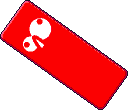
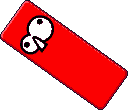
Vaporwave title in red and orange; new rice cake sprite
Title screen: night sky, striped sunset, horizon bands, palm silhouettes,
scrolling road with the three foods driving across, CRT scanlines.
Title face red with cream rim and orange shadow. Rice cake sprite is
regenerated from ricecakenew.png.

Claude-Session: https://claude.ai/code/session_019SEJ4iV7qy8DmvVWUoUxTh

diff --git a/chicken_game.html b/chicken_game.html
@@ -402,40 +402,56 @@ function sprite(key,x,y,scale=1,rot=0,alpha=1){
 // Overscan raises the existing artwork and keeps ceiling/cabinet frames off the arch seam.
 const kitchenBackdrop={key:'bg2',veil:'rgba(28,5,10,.52)'};
 const BACKDROP_Y={bg1:-48,bg2:-56,bg3:-80};
-// ---- 타이틀 전용 아케이드 배경: 흐르는 레드 체크 + 반짝이는 픽셀 별 ----
-// TV 아치의 가장자리(블리드)까지 같은 무늬로 채우도록 target 을 받는다.
-const titlePatterns=new WeakMap();
-function titlePattern(target){
-  let p=titlePatterns.get(target);
-  if(p!==undefined)return p;
-  const c=document.createElement('canvas');c.width=c.height=48;const x=c.getContext('2d');
-  x.fillStyle='#1b0c10';x.fillRect(0,0,48,48);
-  x.fillStyle='#261016';x.fillRect(0,0,24,24);x.fillRect(24,24,24,24);
-  p=target.createPattern?target.createPattern(c,'repeat'):null;titlePatterns.set(target,p);return p;
-}
-const TITLE_STARS=[[34,74,0],[322,88,1.3],[18,262,2.1],[340,228,.7],[46,420,1.7],[318,396,2.6],[28,590,.4],[330,560,1.1],[92,40,2.9],[268,36,.2]];
-function pixelSpark(target,x,y,s,col){
-  target.fillStyle=col;
-  target.fillRect(R(x)-s,R(y)-1,s*2,2);target.fillRect(R(x)-1,R(y)-s,2,s*2);
-  target.fillRect(R(x)-2,R(y)-2,4,4);
+// ---- 타이틀 전용 배경: 레드/오렌지 베이퍼웨이브 (시티 커넥션 타이틀처럼) ----
+// 단색 밤하늘 + 줄무늬 석양 + 수평선 띠 + 야자수 실루엣 + 도로.
+// TV 아치의 가장자리(블리드)까지 같은 장면으로 채우도록 target 을 받는다.
+const VW={sky:'#3a0814',skyLow:'#5a0b18',sunTop:'#ffb03b',sunBot:'#f21d27',horizon:500,road:596,
+  bands:['#5c0c1a','#7c1020','#a3151f','#cf2a1f','#f0501f','#ff8a3b'],palm:'#1a050a'};
+function vwPalm(target,x,base,h,flip){
+  target.fillStyle=VW.palm;
+  // 줄기: 살짝 휜 픽셀 기둥
+  for(let i=0;i<h;i+=4){const k=i/h, bx=x+flip*Math.round(Math.sin(k*1.6)*18);target.fillRect(R(bx-4+k*2),R(base-i-4),R(8-k*3),4);}
+  const tx=x+flip*Math.round(Math.sin(1.6)*18), ty=base-h;
+  // 잎: 부채꼴로 늘어진 픽셀 가지
+  for(const [ang,len] of [[-2.7,44],[-2.2,50],[-1.7,40],[-1.2,50],[-.6,46],[-.15,40],[-3.1,36]]){
+    for(let d=0;d<len;d+=3){const droop=(d/len)**2*22, px=tx+Math.cos(ang)*d, py=ty+Math.sin(ang)*d*.55+droop;
+      const w=R(6-d/len*4);target.fillRect(R(px-w/2),R(py-w/2),w,w);}
+  }
+  target.fillRect(R(tx-5),R(ty-4),10,8);
 }
 function paintTitleBackdrop(target){
-  const t=game.t||0,pat=titlePattern(target);
-  const off=(t*14)%48;
-  target.save();
-  target.fillStyle=pat||'#1b0c10';target.translate(off,off);
-  target.fillRect(-GW-off,-GH-off,GW*3,GH*3);
-  target.restore();
-  // 위아래 어둡게 (타이틀과 손 영역에 시선이 모이게)
-  const g=target.createLinearGradient(0,-40,0,GH);
-  g.addColorStop(0,'rgba(22,11,14,.85)');g.addColorStop(.28,'rgba(22,11,14,0)');
-  g.addColorStop(.7,'rgba(22,11,14,0)');g.addColorStop(1,'rgba(22,11,14,.7)');
-  target.fillStyle=g;target.fillRect(-GW,-GH,GW*3,GH*3);
-  // 아치 밖까지 이어지는 반짝임
-  for(const [x,y,ph] of [...TITLE_STARS,[-40,160,.9],[400,300,1.9],[-30,480,2.4],[392,120,.3]]){
-    const k=(Math.sin(t*2.2+ph*2.4)+1)/2; if(k<.55)continue;
-    pixelSpark(target,x,y,k>.85?5:3,k>.85?OVEN.red:OVEN.deepRed);
+  const t=game.t||0, H=VW.horizon;
+  target.fillStyle=VW.sky;target.fillRect(-GW,-GH,GW*3,GH*3);
+  // 하늘 아래쪽이 조금 밝아지는 계단식 띠 (그라데이션 대신 픽셀 밴드)
+  const steps=['#410916','#480a17','#500b18','#590c19','#630d1a'];
+  steps.forEach((c,i)=>{target.fillStyle=c;target.fillRect(-GW,H-150+i*28,GW*3,28);});
+  // 석양: 위 오렌지 → 아래 레드, 아래쪽은 가로줄로 잘린다
+  const cx=GW/2, cy=H-6, r=86;
+  for(let y=-r;y<=0;y+=2){
+    const k=(y+r)/r, cut=k>.45&&((y+r)%14)<Math.round((k-.45)*14);
+    if(cut)continue;
+    const w=Math.floor(Math.sqrt(r*r-y*y)/2)*2;
+    target.fillStyle=k<.5?VW.sunTop:k<.75?'#ff6a2b':VW.sunBot;
+    target.fillRect(R(cx-w),R(cy+y),w*2,2);
   }
+  // 수평선 띠
+  let y=H; VW.bands.forEach((c,i)=>{const h=[10,8,6,5,4,3][i];target.fillStyle=c;target.fillRect(-GW,y,GW*3,h);y+=h;});
+  // 바다/바닥: 흐르는 가로 반사선
+  target.fillStyle='#2a0610';target.fillRect(-GW,y,GW*3,VW.road-y);
+  for(let i=0;i<5;i++){const yy=y+6+i*14, off=((t*30*(1+i*.3))%80);
+    target.fillStyle=i%2?'rgba(255,138,59,.28)':'rgba(242,29,39,.35)';
+    for(let x=-GW-80+off;x<GW*2;x+=80)target.fillRect(R(x),R(yy),26-i*3,2);}
+  // 도로
+  target.fillStyle=VW.bands[5];target.fillRect(-GW,VW.road,GW*3,2);
+  target.fillStyle='#150408';target.fillRect(-GW,VW.road+2,GW*3,GH*2);
+  const dash=(t*90)%40;target.fillStyle='rgba(255,176,59,.55)';
+  for(let x=-GW-40+dash;x<GW*2;x+=40)target.fillRect(R(x),VW.road+30,18,2);
+  // 야자수 (화면 양쪽과 아치 밖)
+  vwPalm(target,22,H+2,150,1);vwPalm(target,-30,H+6,190,1);
+  vwPalm(target,340,H+2,160,-1);vwPalm(target,398,H+6,200,-1);
+  // CRT 주사선
+  target.fillStyle='rgba(0,0,0,.14)';
+  for(let yy=-GH;yy<GH*2;yy+=4)target.fillRect(-GW,yy,GW*3,1);
 }
 function paintKitchenBackdrop(target){
   if(kitchenBackdrop.key==='title'){paintTitleBackdrop(target);return;}
@@ -911,14 +927,15 @@ function titleWord(str,x,y,size,align='center'){
   const o=3;
   ctx.fillStyle=OVEN.ink;
   for(const [dx,dy] of [[-o,0],[o,0],[0,-o],[0,o],[-o,-o],[o,-o],[-o,o],[o,o]]) ctx.fillText(str,R(x)+dx,R(y)+5+dy);
-  ctx.fillStyle=OVEN.deepRed; ctx.fillText(str,R(x),R(y)+5);
+  ctx.fillStyle=OVEN.orange; ctx.fillText(str,R(x),R(y)+5);
   ctx.fillStyle=OVEN.ink;
   for(const [dx,dy] of [[-o,0],[o,0],[0,-o],[0,o],[-o,-o],[o,-o],[-o,o],[o,o]]) ctx.fillText(str,R(x)+dx,R(y)+dy);
+  ctx.fillStyle=OVEN.paper; ctx.fillText(str,R(x),R(y)-2);
   ctx.fillStyle=OVEN.red; ctx.fillText(str,R(x),R(y));
 }
 function titleDot(x,y){
   ctx.fillStyle=OVEN.ink;ctx.fillRect(R(x)-6,R(y)-6,12,12);
-  ctx.fillStyle=OVEN.green;ctx.fillRect(R(x)-3,R(y)-3,6,6);
+  ctx.fillStyle=OVEN.orange;ctx.fillRect(R(x)-3,R(y)-3,6,6);
 }
 function drawTitle(y){
   const size=48,cw=size/2,gap=26;
@@ -946,32 +963,31 @@ function drawTitleCloud(cx,cy,t){
   for(let i=0;i<6;i++){const a=t*.9+i*Math.PI/3, px=cx+Math.cos(a)*176, py=cy+bob+Math.sin(a)*96;
     ctx.fillStyle=OVEN.ink;pixelBlob(px,py,9);ctx.fillStyle=i%3===0?OVEN.green:i%2?OVEN.red:OVEN.paper;pixelBlob(px,py,6);}
 }
-// 재료들이 서 있는 무대 (그림자 + 바닥 띠)
-function drawTitleStage(t){
-  ctx.fillStyle='rgba(22,11,14,.55)';ctx.fillRect(0,352,GW,6);
-  ctx.fillStyle=OVEN.red;ctx.fillRect(0,350,GW,2);
-  FOODS.forEach((key,i)=>{
-    const ph=t*3.2+i*2.1, jump=Math.max(0,Math.sin(ph))*22, x=78+i*102;
-    const sw=R(34-jump*.5);ctx.fillStyle='rgba(22,11,14,.6)';ctx.fillRect(R(x-sw/2),346,sw,4);
-    sprite(key,x,318-jump,1.15,Math.sin(ph)*.08);
-  });
+// 재료들이 도로 위를 줄지어 달린다 (시티 커넥션의 택시 줄처럼)
+function drawTitleParade(t){
+  const gap=120, span=GW+gap, off=(t*46)%gap;
+  for(let n=-1;n<4;n++){
+    const key=FOODS[((n+Math.floor(t*46/gap))%3+3)%3], x=-60+n*gap+off;
+    const hop=Math.abs(Math.sin(t*9+n))*4;
+    ctx.fillStyle='rgba(0,0,0,.45)';ctx.fillRect(R(x-18),VW.road+4,36,4);
+    sprite(key,x,VW.road-24-hop,.85,key==='ricecake'?0:Math.sin(t*9+n)*.05);
+  }
 }
 function drawAttract(t){
   bg('title');
-  drawTitleCloud(GW/2,166,t);
-  drawTitle(134);
-  drawTitleStage(t);
+  drawTitle(150);
+  drawTitleParade(t);
   const cdLeft=game.cooldownUntil-t, waiting=cdLeft>0||game.needExit;
   const hold=game.holdStart===null?0:clamp((t-game.holdStart)/T.START_HOLD,0,1);
-  const hy=452;
+  const hy=296;
   // 손 링: 인식되면 그린으로 차오른다
   pixelRing(GW/2,hy,38,hold,OVEN.green,4);
   ctx.globalAlpha=waiting?.35:1;
   ctx.drawImage(CUR_HAND,R(GW/2-24),hy-21+R(Math.sin(t*3)*3),48,42);
   // PUSH START처럼 깜빡이는 한 줄
   const blink=hold>0||((t*1.6)%1)<.62;
-  if(blink){ctx.fillStyle='rgba(22,11,14,.72)';ctx.fillRect(GW/2-86,520,172,32);
-    label('손을 인식해 시작',GW/2,536,16,hold>0?OVEN.green:OVEN.paper);}
+  if(blink){ctx.fillStyle='rgba(22,11,14,.72)';ctx.fillRect(GW/2-86,352,172,32);
+    label('손을 인식해 시작',GW/2,368,16,hold>0?OVEN.green:OVEN.paper);}
   ctx.globalAlpha=1;
 }
 function drawIntro(t){
